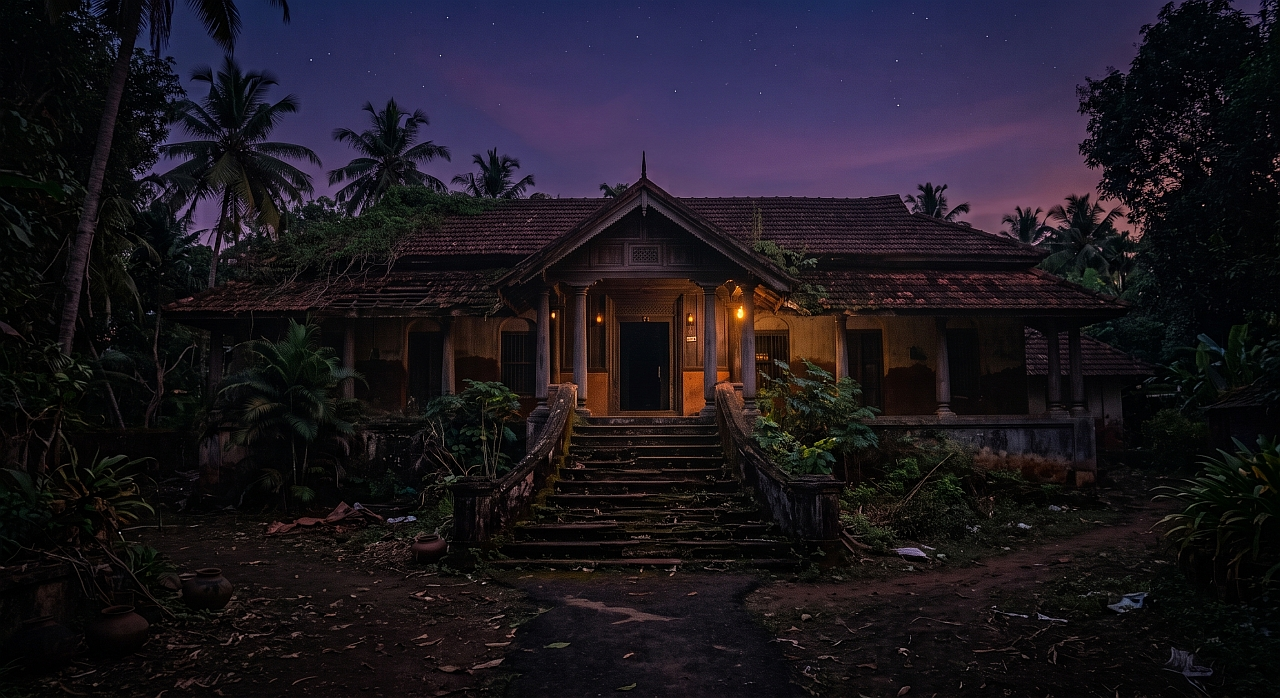
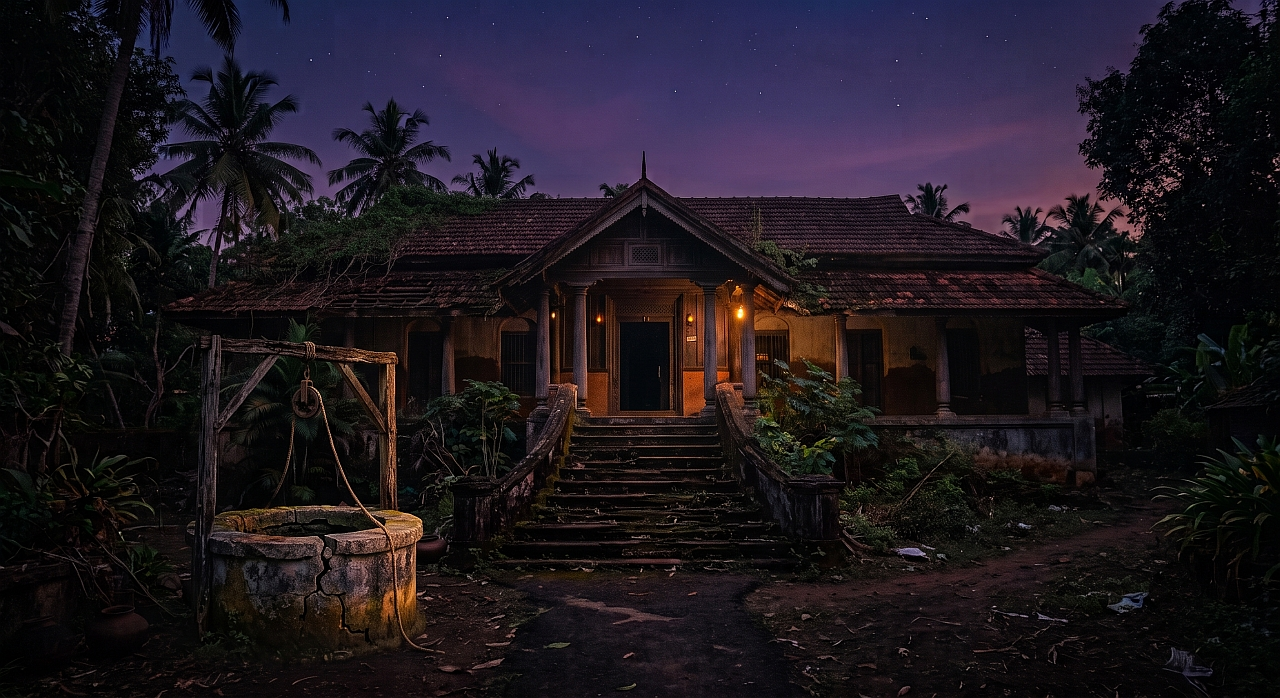
Poem edits: പതിനാലാമത്തെ പടി
Update banner to the well-included version of the house image, for
continuity with കിണറിന്റെ മറുപടി — a shared, recurring fictional
place across the collection.

diff --git a/poems/pathinalamathe-padi.html b/poems/pathinalamathe-padi.html
@@ -78,7 +78,7 @@
 
   <div class="banner">
     <img src="images/pathinalamathe-padi.jpg" width="1280" height="698"
-         alt="ചിത്രം: നിലാവെളിച്ചമുള്ള സന്ധ്യയിൽ ഒരു പഴയ കേരള തറവാട്; വിളക്കുകൾ തെളിഞ്ഞ വരാന്തയിലേക്ക് നയിക്കുന്ന കൽപ്പടികൾ" loading="lazy">
+         alt="ചിത്രം: നിലാവെളിച്ചമുള്ള സന്ധ്യയിൽ ഒരു പഴയ കേരള തറവാട്; വിളക്കുകൾ തെളിഞ്ഞ വരാന്തയിലേക്ക് നയിക്കുന്ന കൽപ്പടികളും, മുറ്റത്ത് ഒരു ജീർണിച്ച കിണറും" loading="lazy">
   </div>
 
   <header class="hero">
